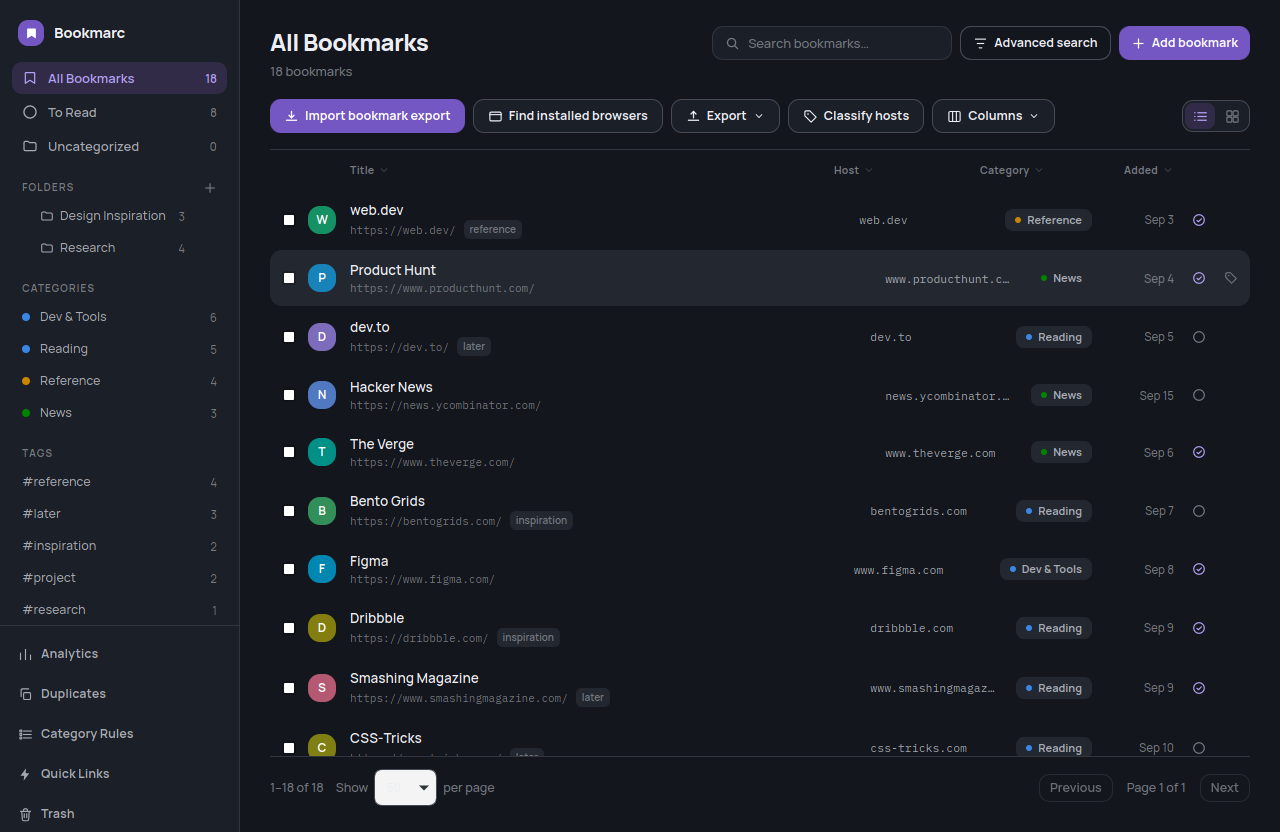
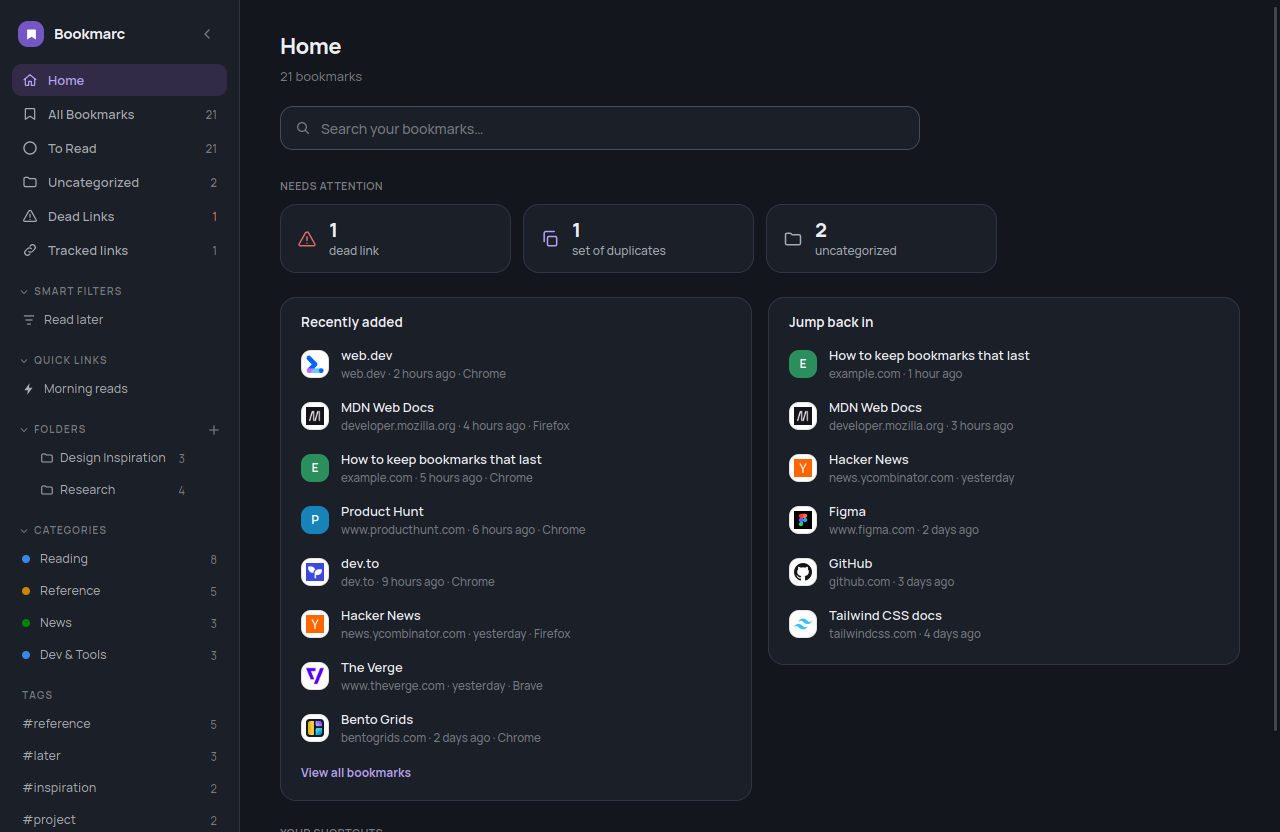
Update the site for the extension, Home, saved copies and the trial
The site predated several features and its privacy copy no longer
described everything the app does.

Copy
- Hero and site description mention saved copies and saving from the
  browser; add a "14-day free trial, no account" line under the buttons.
- Features grows from 8 to 12 cards: a Home screen, the browser
  extension, saved copies and translations. The import card now names
  Pocket, Raindrop and Pinboard, and the dead-link card mentions the
  Internet Archive shortcut.
- Local-first section grows to six points. "No telemetry" now says that
  link checks, site icons and saved copies contact the bookmarked site
  directly, never a Bookmarc server (it previously implied nothing left
  the machine). New points cover saved copies and the local-only
  extension connection.
- FAQ gains questions on saving from the browser, saved copies and the
  free trial, and the import answer names the extra sources. The
  extension answer says it isn't in the browser stores yet.
- Pricing lists the free trial.
- Privacy Policy gains sections on the sites the app contacts on the
  user's behalf and on the browser extension. The "Last updated" and
  "This website" placeholders are left for the owner to fill in.

Screenshots
- The hero shows the new Home screen. The gallery grows from three to
  six: saved-copy reader, filters and column search, and the extension
  settings card, ahead of the existing Analytics, Category Rules and
  Quick Links shots.
[…]

diff --git a/src/lib/siteConfig.ts b/src/lib/siteConfig.ts
@@ -3,7 +3,7 @@ export const siteConfig = {
   name: "Bookmarc",
   tagline: "A bookmark manager that stays on your computer.",
   description:
-    "Bookmarc is a local-first desktop bookmark manager: import from every browser, organize with folders/categories/tags, find dead links and duplicates, and see your bookmarking habits in Analytics — with nothing ever sent to a server.",
+    "Bookmarc is a local-first desktop bookmark manager: import from every browser, organize with folders, categories and tags, find dead links and duplicates, keep readable copies of pages, and save straight from your browser — with your bookmarks never leaving your computer.",
 
   // Lemon Squeezy checkout / product page URL.
   checkoutUrl: "https://bookmarc.lemonsqueezy.com/buy/REPLACE_ME",
